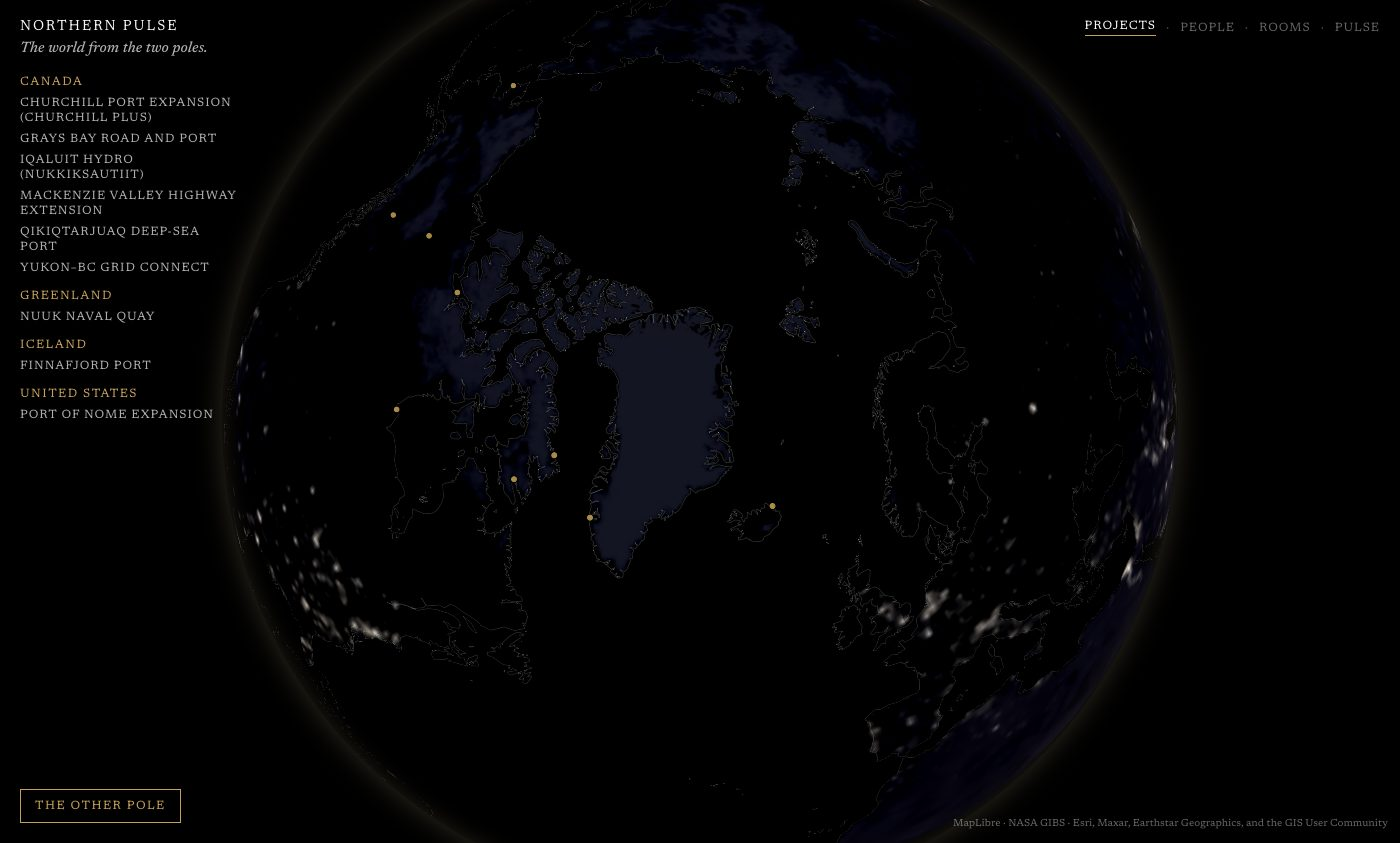
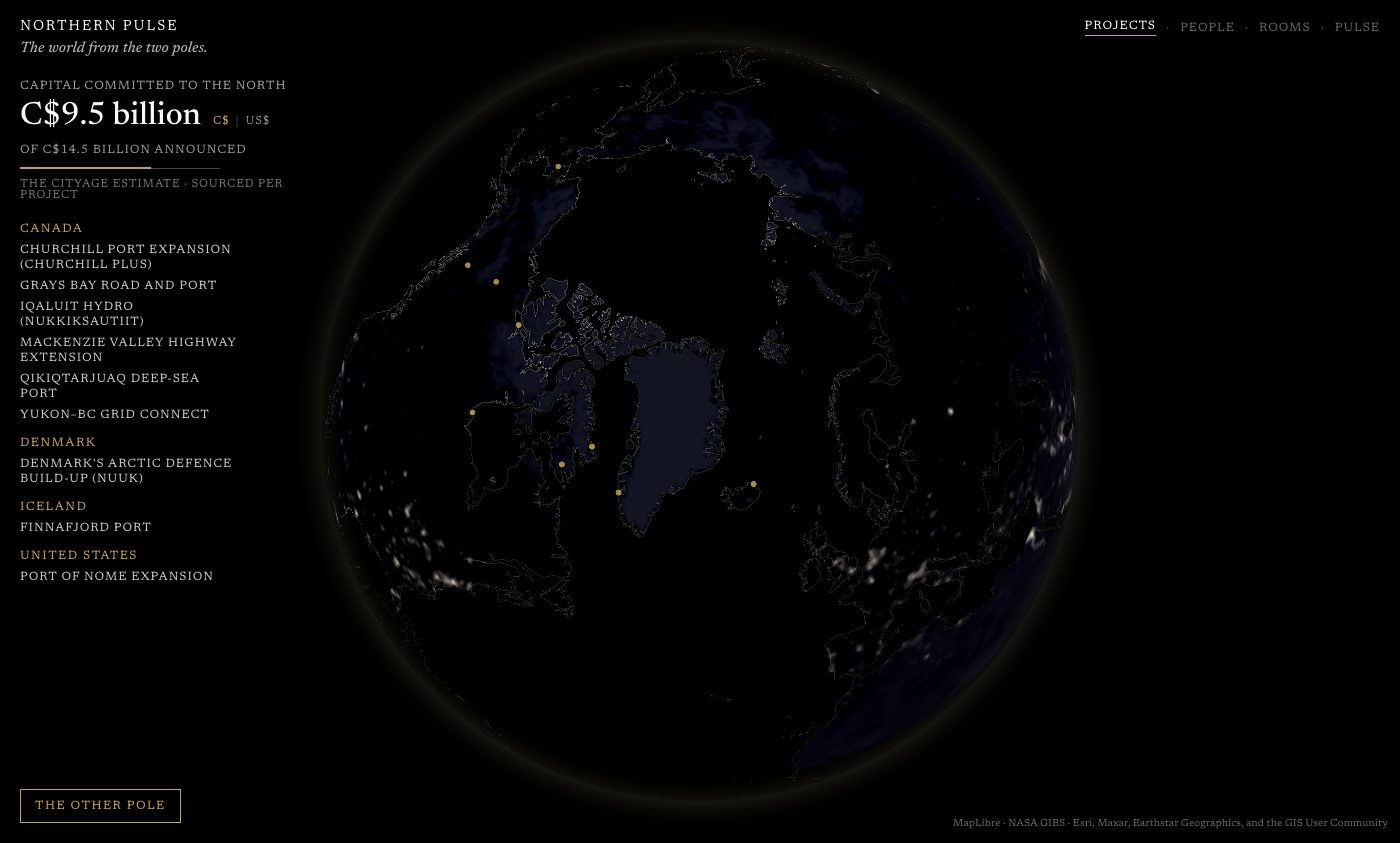
Pulse: fit the whole globe to the shorter side at 90%, spin resumes 12s after interaction, left scrim
Opening zoom now targets 90% of the viewport's shorter side, corrected
against the measured silhouette: 759px on 1400x900, 1119px on 2400x1300,
357px on 390x844. The spin still stops on interaction but returns 12s
after the last one when no card is open. A black-to-transparent scrim
360px wide sits under the title, counter and index; index items at 80%,
100% on hover; the capital label stays on one line. Poster re-rendered.

diff --git a/components/pulse/pulse-globe.tsx b/components/pulse/pulse-globe.tsx
@@ -103,14 +103,18 @@ function capitalByCountry(rows: Project[]): { total: { announced: number; commit
   return { total: { announced, committed }, countries: [...by.values()].sort((a, b) => a.country.localeCompare(b.country)) }
 }
 
+/** Target diameter: the whole sphere on the viewport's shorter side, rim visible, never above 90% of the height. */
+function fitDiameter(el: HTMLElement | null): number {
+  const w = el?.clientWidth || 1400
+  const h = el?.clientHeight || 843
+  return 0.9 * Math.min(w, h)
+}
 /**
- * The opening zoom: the sphere fills the viewport height and bleeds off the
- * top and bottom. MapLibre's globe spans roughly 439px × 2^zoom on screen;
+ * The opening zoom. MapLibre's globe spans roughly 439px × 2^zoom on screen;
  * measureSphere() then corrects the guess against the real silhouette.
  */
 function fillZoom(el: HTMLElement | null): number {
-  const h = el?.clientHeight || 843
-  return Math.max(-1, Math.min(3, Math.log2((1.15 * h) / 439)))
+  return Math.max(-1.5, Math.min(3, Math.log2(fitDiameter(el) / 439)))
 }
 
 const toVec = ([lng, lat]: [number, number]) => {
@@ -256,11 +260,24 @@ export function PulseGlobe({ mode = 'page', initialSlug }: { mode?: 'page' | 'em
   // ---- idle spin state (declared early so handlers below can use it)
   const idleRef = useRef<number | null>(null)
   const idleStopped = useRef(false)
+  const resumeTimer = useRef<number | null>(null)
+  const activeRef = useRef<Project | null>(null)
   const stopIdle = useCallback(() => {
     idleStopped.current = true
     if (idleRef.current) cancelAnimationFrame(idleRef.current)
     idleRef.current = null
+    if (resumeTimer.current) window.clearTimeout(resumeTimer.current)
+    resumeTimer.current = null
   }, [])
+  /** An interaction: stop, then come back 12s after the last one unless a card is open. */
+  const onInteract = useCallback(() => {
+    stopIdle()
+    resumeTimer.current = window.setTimeout(() => {
+      resumeTimer.current = null
+      if (!activeRef.current) startIdleRef.current?.()
+    }, 12000)
+  }, [stopIdle])
+  const startIdleRef = useRef<(() => void) | null>(null)
   const startIdle = useCallback(() => {
     const map = mapRef.current
     if (!map || embed || reduced) return
@@ -279,6 +296,7 @@ export function PulseGlobe({ mode = 'page', initialSlug }: { mode?: 'page' | 'em
     }
     idleRef.current = requestAnimationFrame(tick)
   }, [embed, reduced])
+  startIdleRef.current = startIdle
 
   // ---- the limb: an overlay sized to the sphere's real silhouette
   const measureSphere = useCallback((map: MLMap) => {
@@ -328,7 +346,7 @@ export function PulseGlobe({ mode = 'page', initialSlug }: { mode?: 'page' | 'em
       style: buildStyle(),
       center: NORTH,
       zoom: fillZoom(containerRef.current),
-      minZoom: -1,
+      minZoom: -1.5,
       pitch: 0,
       bearing: 0,
       attributionControl: false,
@@ -359,7 +377,7 @@ export function PulseGlobe({ mode = 'page', initialSlug }: { mode?: 'page' | 'em
       const el = containerRef.current
       if (!el) return
       const { radiusPx } = measureSphere(map)
-      const target = (1.15 * el.clientHeight) / 2
+      const target = fitDiameter(el) / 2
       if (radiusPx > 0) map.jumpTo({ zoom: map.getZoom() + Math.log2(target / radiusPx) })
       homeZoom.current = map.getZoom()
       updateLimb()
@@ -539,19 +557,20 @@ export function PulseGlobe({ mode = 'page', initialSlug }: { mode?: 'page' | 'em
     const el = containerRef.current
     if (!el) return
     const opts = { passive: true } as AddEventListenerOptions
-    el.addEventListener('pointerdown', stopIdle, opts)
-    el.addEventListener('touchstart', stopIdle, opts)
-    el.addEventListener('wheel', stopIdle, opts)
-    window.addEventListener('keydown', stopIdle)
+    el.addEventListener('pointerdown', onInteract, opts)
+    el.addEventListener('touchstart', onInteract, opts)
+    el.addEventListener('wheel', onInteract, opts)
+    window.addEventListener('keydown', onInteract)
     return () => {
-      el.removeEventListener('pointerdown', stopIdle)
-      el.removeEventListener('touchstart', stopIdle)
-      el.removeEventListener('wheel', stopIdle)
-      window.removeEventListener('keydown', stopIdle)
+      el.removeEventListener('pointerdown', onInteract)
+      el.removeEventListener('touchstart', onInteract)
+      el.removeEventListener('wheel', onInteract)
+      window.removeEventListener('keydown', onInteract)
     }
     // eslint-disable-next-line react-hooks/exhaustive-deps
   }, [ready])
   useEffect(() => {
+    activeRef.current = active
     if (active) stopIdle()
   }, [active, stopIdle])
 
@@ -582,7 +601,7 @@ export function PulseGlobe({ mode = 'page', initialSlug }: { mode?: 'page' | 'em
     setActive(null)
     const to = next === 'south' ? SOUTH : NORTH
     if (flightRef.current) cancelAnimationFrame(flightRef.current)
-    stopIdle()
+    onInteract()
     const z1 = homeZoom.current ?? fillZoom(containerRef.current)
     if (reduced) {
       map.jumpTo({ center: to, zoom: z1, pitch: 0, bearing: 0 })
@@ -649,6 +668,7 @@ export function PulseGlobe({ mode = 'page', initialSlug }: { mode?: 'page' | 'em
       ) : null}
       <div ref={containerRef} className={`pulse-map${ready ? ' is-ready' : ''}`} aria-label="Northern Pulse globe" />
       <div ref={limbRef} className="pulse-limb" aria-hidden="true" />
+      {!embed ? <div className="pulse-scrim" aria-hidden="true" /> : null}
 
       <div className="pulse-chrome pulse-left">
         <div className="pulse-title">

diff --git a/components/pulse/pulse.css b/components/pulse/pulse.css
@@ -48,7 +48,9 @@
 /* Chrome */
 .pulse-chrome { position: absolute; z-index: 4; pointer-events: none; }
 .pulse-chrome > * { pointer-events: auto; }
-.pulse-left { top: 20px; left: 20px; bottom: 72px; width: 240px; display: flex; flex-direction: column; gap: 22px; }
+.pulse-left { top: 20px; left: 20px; bottom: 72px; width: 300px; display: flex; flex-direction: column; gap: 22px; }
+/* Scrim under the left panel: black at 85% fading to transparent over 360px, so the text sits on dark. */
+.pulse-scrim { position: absolute; z-index: 3; top: 0; left: 0; bottom: 0; width: 360px; pointer-events: none; background: linear-gradient(to right, rgba(0, 0, 0, 0.85), rgba(0, 0, 0, 0)); }
 .pulse-title { display: flex; flex-direction: column; gap: 6px; }
 .pulse-title .name { font-size: 14px; line-height: 1; letter-spacing: 0.14em; text-transform: uppercase; color: #F9F9F7; }
 .pulse-title .line { font-size: 15px; line-height: 1.2; font-style: italic; font-weight: 500; color: rgba(249, 249, 247, 0.7); }
@@ -77,14 +79,14 @@
 .pulse-index::-webkit-scrollbar { display: none; }
 .pulse-index .group { display: flex; flex-direction: column; gap: 6px; }
 .pulse-index .country { font-size: 12px; line-height: 1; letter-spacing: 0.12em; text-transform: uppercase; color: #C5A059; margin-bottom: 2px; }
-.pulse-index button { font: inherit; font-size: 12px; line-height: 1.25; letter-spacing: 0.08em; text-transform: uppercase; text-align: left; color: rgba(249, 249, 247, 0.7); background: none; border: 0; padding: 0; cursor: pointer; }
+.pulse-index button { font: inherit; font-size: 12px; line-height: 1.25; letter-spacing: 0.08em; text-transform: uppercase; text-align: left; color: rgba(249, 249, 247, 0.8); background: none; border: 0; padding: 0; cursor: pointer; }
 .pulse-index button:hover, .pulse-index button.is-active { color: #F9F9F7; }
 .pulse-index button:focus-visible { outline: 2px solid #C5A059; outline-offset: 2px; }
 @media (max-width: 767px) { .pulse-index { display: none; } .pulse-left { bottom: auto; width: calc(100% - 28px); } }
 
 /* Capital committed: two numbers and a line between them */
 .pulse-capital { position: relative; display: flex; flex-direction: column; gap: 8px; }
-.pulse-capital .label { font-size: 12px; line-height: 1; letter-spacing: 0.08em; text-transform: uppercase; color: #9A9A9A; }
+.pulse-capital .label { font-size: 12px; line-height: 1; letter-spacing: 0.08em; text-transform: uppercase; color: #9A9A9A; white-space: nowrap; }
 .pulse-capital .counter { display: flex; align-items: baseline; gap: 12px; }
 .pulse-capital .ccy { display: inline-flex; align-items: baseline; gap: 6px; font-size: 11px; line-height: 1; letter-spacing: 0.08em; text-transform: uppercase; color: rgba(249, 249, 247, 0.55); }
 .pulse-capital .ccy button { font: inherit; letter-spacing: inherit; text-transform: inherit; color: inherit; background: none; border: 0; padding: 0; cursor: pointer; }
